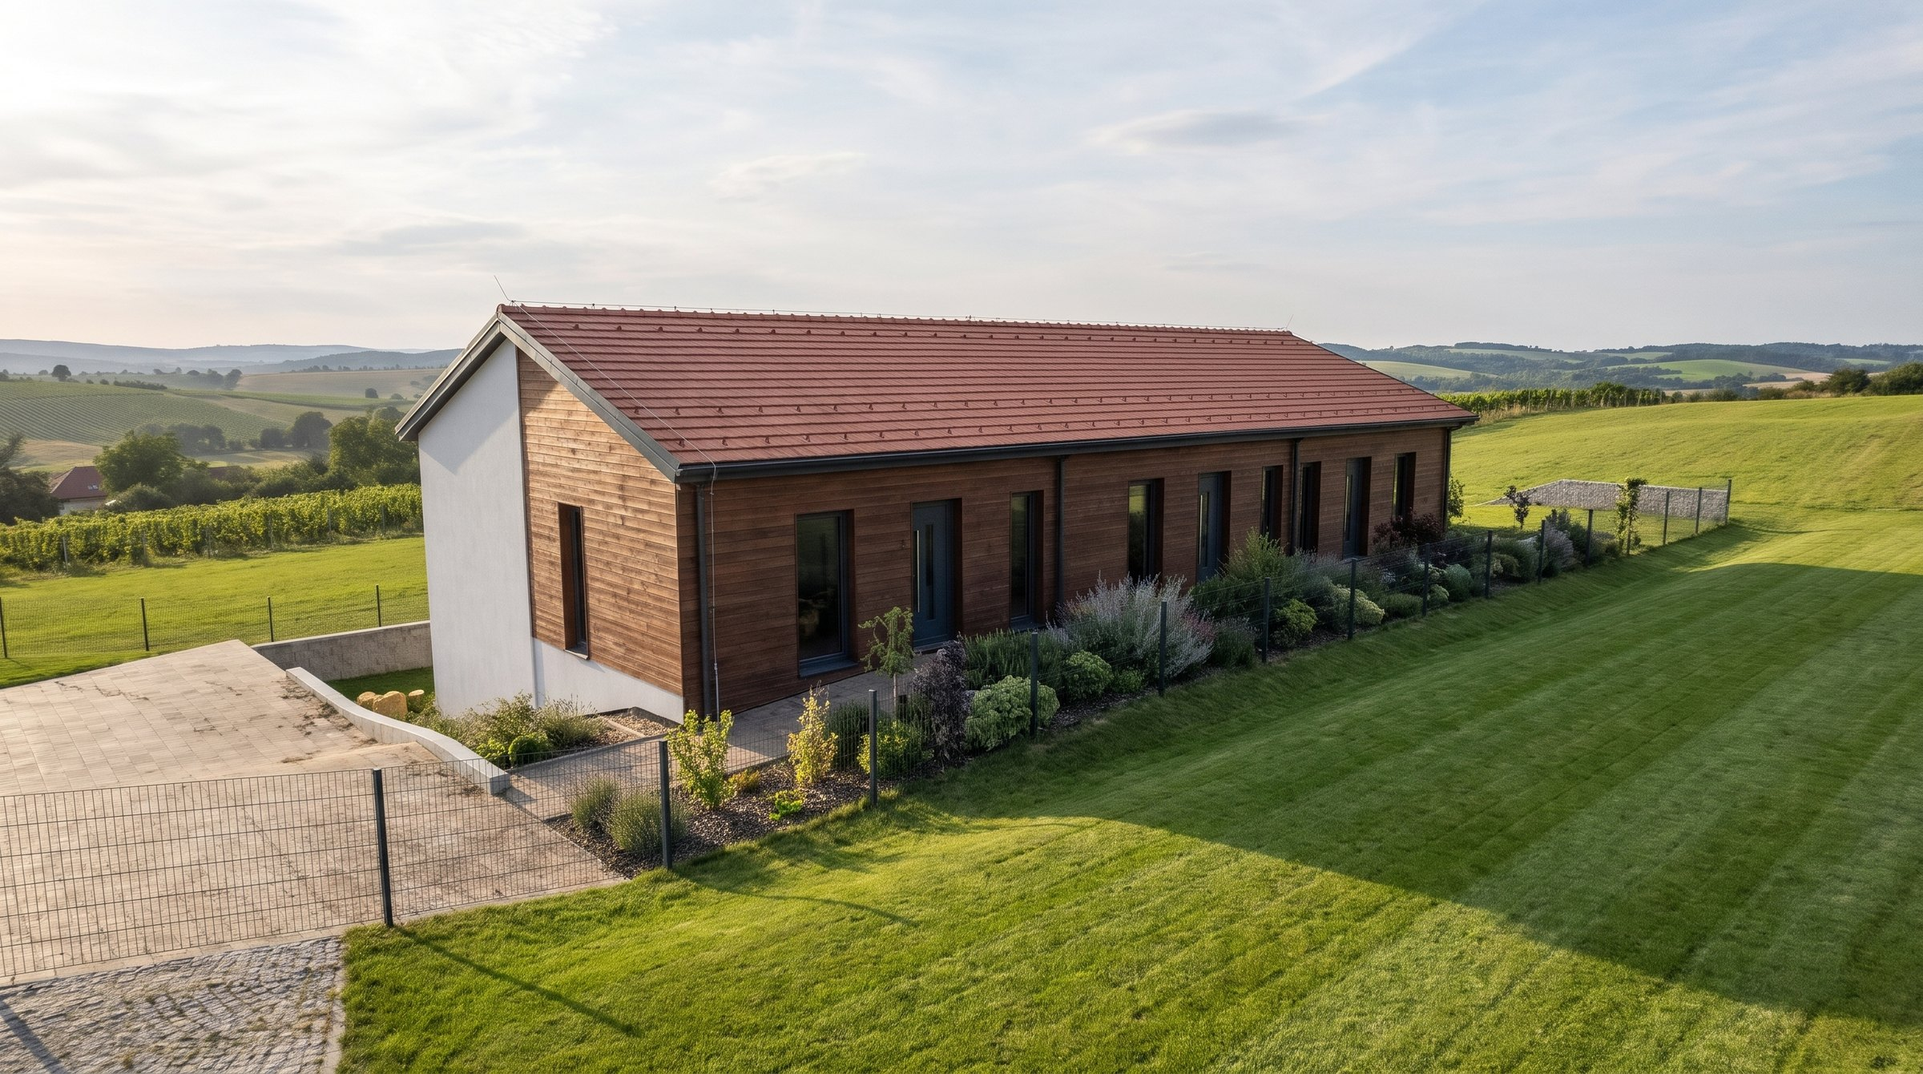
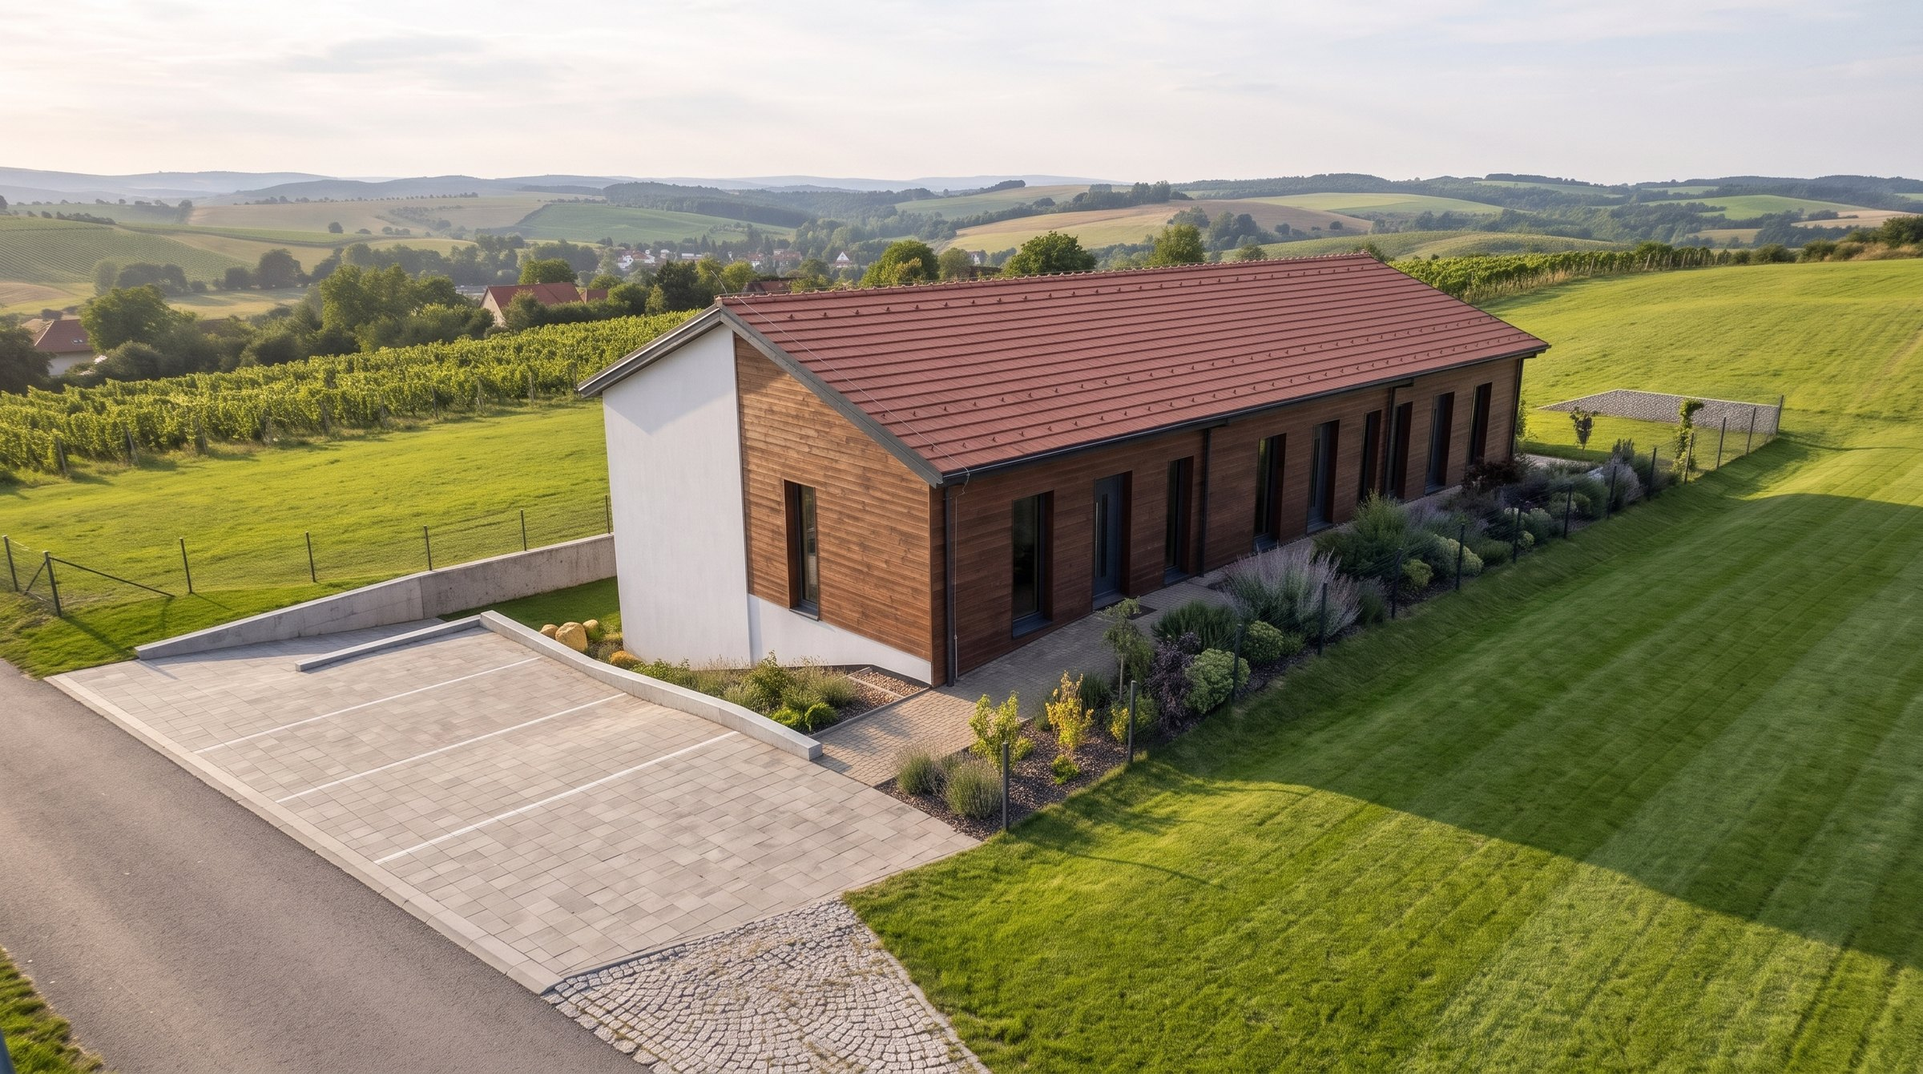
Předání: připomínky ke každé části, upravené vizualizace (vjezd, svislice)

diff --git a/predani/index.html b/predani/index.html
@@ -19,24 +19,31 @@ table{border-collapse:collapse;width:100%;max-width:640px;font-size:15px}td{padd
 .need{border:1.5px solid var(--zl);background:linear-gradient(180deg,#f7ecd4,#fbf6ec);border-radius:6px;padding:16px 22px 10px;margin-top:14px}
 .need h3{font:400 24px "Didot","Bodoni Moda",serif;margin:0 0 8px;color:var(--vin)}.need ol{margin:0;padding-left:20px}.need li{margin:5px 0}
 .dal li{margin:6px 0}.bxw{margin:10px 0;display:flex;gap:10px;align-items:center;font-weight:600}
-.bx{width:22px;height:22px;border:2px solid var(--gr);border-radius:4px;display:inline-block;cursor:pointer}.bx.on{background:var(--li);border-color:var(--li)}
+.bx{display:inline-flex;cursor:pointer}.bxw .bx i{width:24px;height:24px;border:2px solid var(--gr);border-radius:4px;display:flex;align-items:center;justify-content:center;background:#fffdf8}.bxw .bx input:checked+i{background:var(--li);border-color:var(--li)}.bxw .bx input:checked+i::after{content:'✓';color:#fff;font-weight:700;font-style:normal}
+.kom{margin:16px 0 0;border-top:1px solid #e3d9c6;padding-top:10px}.kb{background:none;border:1px solid var(--zl);color:var(--vin);font:600 14px Mulish,system-ui,sans-serif;padding:7px 13px;border-radius:3px;cursor:pointer}
+.kb:hover{background:#f3e7cc}.kf{display:none;margin-top:8px}.kom.on .kf{display:block}.kf textarea{width:100%;max-width:720px;min-height:90px;border:1px solid #cfc3ab;border-radius:4px;padding:10px 12px;font:15px Mulish,system-ui,sans-serif;background:#fffdf8;display:block}
+.ks{margin-top:8px;background:var(--gr);color:var(--kr);border:0;font:700 14px Mulish,system-ui,sans-serif;padding:9px 16px;border-radius:3px;cursor:pointer}.kst{margin-left:10px;font-size:14px;color:#6d665b}.kst.err{color:var(--vin)}
+.kl div{background:#efe6d3;border-left:3px solid var(--zl);padding:7px 11px;margin-top:8px;font-size:14.5px;max-width:720px;white-space:pre-wrap}.kl small{display:block;color:#7a7264;font-size:12px}
 @media(max-width:700px){.vyz,.dum{grid-template-columns:1fr}h1{font-size:31px}.m3d{aspect-ratio:4/5}}
 </style></head><body>
-<header><img src="img/logo_svetle.png" alt="Na Vinici · Valtice"><div class="eyb" style="margin-top:14px">Předání podkladů · 7. 11. 2026</div></header>
+<header><img src="img/logo_svetle.png" alt="Na Vinici · Valtice"><div class="eyb" style="margin-top:14px">Předání podkladů · 9. 11. 2026</div></header>
 <div class="wrap">
 <h1>Dobrý den, pane Zajíčku,</h1>
-<p class="lead">posíláme první část z natáčení ve Valticích: fotky do inzerátu a vyznačení pozemku s dostupností. Film s domem v záběrech, 3D prohlídky
-a vizualizace interiérů právě dokončujeme. Níže najdete dvě věci ke schválení, ať je můžeme rovnou použít.</p>
+<p class="lead">posíláme podklady z natáčení ve Valticích: fotky do inzerátu, vyznačení pozemku s dostupností a ke schválení vzhled domu
+(vizualizace zepředu a zezadu, 3D model s umístěním na pozemku), 3D prohlídku jednotky 1 a vizuál projektu.
+Ke každé části nám můžete rovnou napsat připomínku tlačítkem pod ní.</p>
 
 <h2>Fotky do inzerátu</h2>
 <p class="mut">31 fotek z dronu (pozemek, okolí, zámek, Kolonáda na Rajstně, Lednice). Kliknutím fotku zvětšíte a můžete listovat; stáhnout ji jde přímo v galerii, všechny najednou tlačítkem.</p>
 <a class="btn" href="Valtice_NaVinici_fotky.zip" download>⬇ Stáhnout všechny fotky (55 MB)</a>
 <div class="gal"><a class="lb" data-g="fotky" href="foto/DJI_20261104104037_0472_D.jpg" data-dl="foto/DJI_20261104104037_0472_D.jpg" data-dn="Valtice_NaVinici_0472.jpg"><img loading="lazy" src="nahled/DJI_20261104104037_0472_D.jpg" alt=""></a><a class="lb" data-g="fotky" href="foto/DJI_20261104105020_0485_D.jpg" data-dl="foto/DJI_20261104105020_0485_D.jpg" data-dn="Valtice_NaVinici_0485.jpg"><img loading="lazy" src="nahled/DJI_20261104105020_0485_D.jpg" alt=""></a><a class="lb" data-g="fotky" href="foto/DJI_20261104115548_0637_D.jpg" data-dl="foto/DJI_20261104115548_0637_D.jpg" data-dn="Valtice_NaVinici_0637.jpg"><img loading="lazy" src="nahled/DJI_20261104115548_0637_D.jpg" alt=""></a><a class="lb" data-g="fotky" href="foto/DJI_20261104115606_0639_D.jpg" data-dl="foto/DJI_20261104115606_0639_D.jpg" data-dn="Valtice_NaVinici_0639.jpg"><img loading="lazy" src="nahled/DJI_20261104115606_0639_D.jpg" alt=""></a><a class="lb" data-g="fotky" href="foto/DJI_20261104115631_0641_D.jpg" data-dl="foto/DJI_20261104115631_0641_D.jpg" data-dn="Valtice_NaVinici_0641.jpg"><img loading="lazy" src="nahled/DJI_20261104115631_0641_D.jpg" alt=""></a><a class="lb" data-g="fotky" href="foto/DJI_20261104115723_0644_D.jpg" data-dl="foto/DJI_20261104115723_0644_D.jpg" data-dn="Valtice_NaVinici_0644.jpg"><img loading="lazy" src="nahled/DJI_20261104115723_0644_D.jpg" alt=""></a><a class="lb" data-g="fotky" href="foto/DJI_20261104115748_0646_D.jpg" data-dl="foto/DJI_20261104115748_0646_D.jpg" data-dn="Valtice_NaVinici_0646.jpg"><img loading="lazy" src="nahled/DJI_20261104115748_0646_D.jpg" alt=""></a><a class="lb" data-g="fotky" href="foto/DJI_20261104115816_0650_D.jpg" data-dl="foto/DJI_20261104115816_0650_D.jpg" data-dn="Valtice_NaVinici_0650.jpg"><img loading="lazy" src="nahled/DJI_20261104115816_0650_D.jpg" alt=""></a><a class="lb" data-g="fotky" href="foto/DJI_20261104115835_0652_D.jpg" data-dl="foto/DJI_20261104115835_0652_D.jpg" data-dn="Valtice_NaVinici_0652.jpg"><img loading="lazy" src="nahled/DJI_20261104115835_0652_D.jpg" alt=""></a><a class="lb" data-g="fotky" href="foto/DJI_20261104115841_0653_D.jpg" data-dl="foto/DJI_20261104115841_0653_D.jpg" data-dn="Valtice_NaVinici_0653.jpg"><img loading="lazy" src="nahled/DJI_20261104115841_0653_D.jpg" alt=""></a><a class="lb" data-g="fotky" href="foto/DJI_20261104115844_0654_D.jpg" data-dl="foto/DJI_20261104115844_0654_D.jpg" data-dn="Valtice_NaVinici_0654.jpg"><img loading="lazy" src="nahled/DJI_20261104115844_0654_D.jpg" alt=""></a><a class="lb" data-g="fotky" href="foto/DJI_20261104115914_0657_D.jpg" data-dl="foto/DJI_20261104115914_0657_D.jpg" data-dn="Valtice_NaVinici_0657.jpg"><img loading="lazy" src="nahled/DJI_20261104115914_0657_D.jpg" alt=""></a><a class="lb" data-g="fotky" href="foto/DJI_20261104115924_0658_D.jpg" data-dl="foto/DJI_20261104115924_0658_D.jpg" data-dn="Valtice_NaVinici_0658.jpg"><img loading="lazy" src="nahled/DJI_20261104115924_0658_D.jpg" alt=""></a><a class="lb" data-g="fotky" href="foto/DJI_20261104115959_0661_D.jpg" data-dl="foto/DJI_20261104115959_0661_D.jpg" data-dn="Valtice_NaVinici_0661.jpg"><img loading="lazy" src="nahled/DJI_20261104115959_0661_D.jpg" alt=""></a><a class="lb" data-g="fotky" href="foto/DJI_20261104120042_0664_D.jpg" data-dl="foto/DJI_20261104120042_0664_D.jpg" data-dn="Valtice_NaVinici_0664.jpg"><img loading="lazy" src="nahled/DJI_20261104120042_0664_D.jpg" alt=""></a><a class="lb" data-g="fotky" href="foto/DJI_20261104120119_0667_D.jpg" data-dl="foto/DJI_20261104120119_0667_D.jpg" data-dn="Valtice_NaVinici_0667.jpg"><img loading="lazy" src="nahled/DJI_20261104120119_0667_D.jpg" alt=""></a><a class="lb" data-g="fotky" href="foto/DJI_20261104120206_0670_D.jpg" data-dl="foto/DJI_20261104120206_0670_D.jpg" data-dn="Valtice_NaVinici_0670.jpg"><img loading="lazy" src="nahled/DJI_20261104120206_0670_D.jpg" alt=""></a><a class="lb" data-g="fotky" href="foto/DJI_20261104120436_0676_D.jpg" data-dl="foto/DJI_20261104120436_0676_D.jpg" data-dn="Valtice_NaVinici_0676.jpg"><img loading="lazy" src="nahled/DJI_20261104120436_0676_D.jpg" alt=""></a><a class="lb" data-g="fotky" href="foto/DJI_20261104120618_0684_D.jpg" data-dl="foto/DJI_20261104120618_0684_D.jpg" data-dn="Valtice_NaVinici_0684.jpg"><img loading="lazy" src="nahled/DJI_20261104120618_0684_D.jpg" alt=""></a><a class="lb" data-g="fotky" href="foto/DJI_20261104120959_0687_D.jpg" data-dl="foto/DJI_20261104120959_0687_D.jpg" data-dn="Valtice_NaVinici_0687.jpg"><img loading="lazy" src="nahled/DJI_20261104120959_0687_D.jpg" alt=""></a><a class="lb" data-g="fotky" href="foto/DJI_20261104121008_0688_D.jpg" data-dl="foto/DJI_20261104121008_0688_D.jpg" data-dn="Valtice_NaVinici_0688.jpg"><img loading="lazy" src="nahled/DJI_20261104121008_0688_D.jpg" alt=""></a><a class="lb" data-g="fotky" href="foto/DJI_20261104121014_0689_D.jpg" data-dl="foto/DJI_20261104121014_0689_D.jpg" data-dn="Valtice_NaVinici_0689.jpg"><img loading="lazy" src="nahled/DJI_20261104121014_0689_D.jpg" alt=""></a><a class="lb" data-g="fotky" href="foto/DJI_20261104121019_0690_D.jpg" data-dl="foto/DJI_20261104121019_0690_D.jpg" data-dn="Valtice_NaVinici_0690.jpg"><img loading="lazy" src="nahled/DJI_20261104121019_0690_D.jpg" alt=""></a><a class="lb" data-g="fotky" href="foto/DJI_20261104121159_0696_D.jpg" data-dl="foto/DJI_20261104121159_0696_D.jpg" data-dn="Valtice_NaVinici_0696.jpg"><img loading="lazy" src="nahled/DJI_20261104121159_0696_D.jpg" alt=""></a><a class="lb" data-g="fotky" href="foto/DJI_20261104121300_0701_D.jpg" data-dl="foto/DJI_20261104121300_0701_D.jpg" data-dn="Valtice_NaVinici_0701.jpg"><img loading="lazy" src="nahled/DJI_20261104121300_0701_D.jpg" alt=""></a><a class="lb" data-g="fotky" href="foto/DJI_20261104121313_0707_D.jpg" data-dl="foto/DJI_20261104121313_0707_D.jpg" data-dn="Valtice_NaVinici_0707.jpg"><img loading="lazy" src="nahled/DJI_20261104121313_0707_D.jpg" alt=""></a><a class="lb" data-g="fotky" href="foto/DJI_20261104121347_0709_D.jpg" data-dl="foto/DJI_20261104121347_0709_D.jpg" data-dn="Valtice_NaVinici_0709.jpg"><img loading="lazy" src="nahled/DJI_20261104121347_0709_D.jpg" alt=""></a><a class="lb" data-g="fotky" href="foto/DJI_20261104121408_0713_D.jpg" data-dl="foto/DJI_20261104121408_0713_D.jpg" data-dn="Valtice_NaVinici_0713.jpg"><img loading="lazy" src="nahled/DJI_20261104121408_0713_D.jpg" alt=""></a><a class="lb" data-g="fotky" href="foto/DJI_20261104121426_0716_D.jpg" data-dl="foto/DJI_20261104121426_0716_D.jpg" data-dn="Valtice_NaVinici_0716.jpg"><img loading="lazy" src="nahled/DJI_20261104121426_0716_D.jpg" alt=""></a><a class="lb" data-g="fotky" href="foto/DJI_20261104121439_0718_D.jpg" data-dl="foto/DJI_20261104121439_0718_D.jpg" data-dn="Valtice_NaVinici_0718.jpg"><img loading="lazy" src="nahled/DJI_20261104121439_0718_D.jpg" alt=""></a><a class="lb" data-g="fotky" href="foto/DJI_20261104121459_0720_D.jpg" data-dl="foto/DJI_20261104121459_0720_D.jpg" data-dn="Valtice_NaVinici_0720.jpg"><img loading="lazy" src="nahled/DJI_20261104121459_0720_D.jpg" alt=""></a></div>
+<div class="kom" data-s="Fotky do inzerátu"><button type="button" class="kb">💬 Připomínka k této části</button><div class="kf"><textarea placeholder="Napište nám, co upravit nebo na co se zeptat…"></textarea><button type="button" class="ks">Odeslat</button><span class="kst"></span></div><div class="kl"></div></div>
 
 <h2>Pozemek a dostupnost</h2>
 <p class="mut">Hranice podle katastru (parc. č. 3006/49, 834 m²) je orientační. Vzdálenosti jsou trasy podle mapových podkladů OpenStreetMap, ne vzdušnou čarou.</p>
 <div class="vyz"><figure><a class="lb" data-g="vyz" href="velke/Valtice_NaVinici_0696_vyznaceni.jpg" data-dl="img/Valtice_NaVinici_0696_vyznaceni.jpg" data-dn="Valtice_NaVinici_0696_vyznaceni.jpg" data-cap="Pozemek a dostupnost"><img loading="lazy" src="nahled/Valtice_NaVinici_0696_vyznaceni.jpg" alt=""></a><figcaption><a href="img/Valtice_NaVinici_0696_vyznaceni.jpg" download>⬇ plné rozlišení</a></figcaption></figure><figure><a class="lb" data-g="vyz" href="velke/Valtice_NaVinici_0709_vyznaceni.jpg" data-dl="img/Valtice_NaVinici_0709_vyznaceni.jpg" data-dn="Valtice_NaVinici_0709_vyznaceni.jpg" data-cap="Pozemek a dostupnost"><img loading="lazy" src="nahled/Valtice_NaVinici_0709_vyznaceni.jpg" alt=""></a><figcaption><a href="img/Valtice_NaVinici_0709_vyznaceni.jpg" download>⬇ plné rozlišení</a></figcaption></figure><figure><a class="lb" data-g="vyz" href="velke/Valtice_NaVinici_0718_vyznaceni.jpg" data-dl="img/Valtice_NaVinici_0718_vyznaceni.jpg" data-dn="Valtice_NaVinici_0718_vyznaceni.jpg" data-cap="Pozemek a dostupnost"><img loading="lazy" src="nahled/Valtice_NaVinici_0718_vyznaceni.jpg" alt=""></a><figcaption><a href="img/Valtice_NaVinici_0718_vyznaceni.jpg" download>⬇ plné rozlišení</a></figcaption></figure><figure><a class="lb" data-g="vyz" href="velke/Valtice_NaVinici_0720_vyznaceni.jpg" data-dl="img/Valtice_NaVinici_0720_vyznaceni.jpg" data-dn="Valtice_NaVinici_0720_vyznaceni.jpg" data-cap="Pozemek a dostupnost"><img loading="lazy" src="nahled/Valtice_NaVinici_0720_vyznaceni.jpg" alt=""></a><figcaption><a href="img/Valtice_NaVinici_0720_vyznaceni.jpg" download>⬇ plné rozlišení</a></figcaption></figure></div>
 <table style="margin-top:16px"><tr><td><b>Z pozemku do</b></td><td><b>pěšky</b></td><td><b>autem</b></td></tr><tr><td>Kostel Nanebevzetí Panny Marie</td><td>0,9 km · 12 min</td><td>1,0 km · 4 min</td></tr><tr><td>Nemocnice Valtice</td><td>1,0 km · 13 min</td><td>1,2 km · 4 min</td></tr><tr><td>Lékárna (Nemocnice Valtice)</td><td>1,0 km · 13 min</td><td>1,2 km · 4 min</td></tr><tr><td>Zámek Valtice</td><td>1,0 km · 13 min</td><td>1,1 km · 4 min</td></tr><tr><td>Mateřská škola</td><td>1,0 km · 13 min</td><td>1,4 km · 4 min</td></tr><tr><td>Coop supermarket</td><td>1,0 km · 14 min</td><td>1,3 km · 4 min</td></tr><tr><td>Náměstí Svobody</td><td>1,1 km · 14 min</td><td>1,2 km · 4 min</td></tr><tr><td>Coop potraviny</td><td>1,1 km · 14 min</td><td>1,6 km · 4 min</td></tr><tr><td>Pošta</td><td>1,1 km · 15 min</td><td>1,2 km · 4 min</td></tr><tr><td>Základní škola</td><td>1,2 km · 16 min</td><td>1,3 km · 4 min</td></tr><tr><td>Vlaková zastávka Valtice město</td><td>1,6 km · 22 min</td><td>1,8 km · 4 min</td></tr><tr><td>Nádraží Valtice</td><td>2,5 km · 33 min</td><td>2,4 km · 6 min</td></tr><tr><td>Kolonáda na Rajstně</td><td>3,1 km · 45 min</td><td>3,2 km · 8 min</td></tr><tr><td>Lednice</td><td>–</td><td>8,4 km · 12 min</td></tr></table>
+<div class="kom" data-s="Pozemek a dostupnost"><button type="button" class="kb">💬 Připomínka k této části</button><div class="kf"><textarea placeholder="Napište nám, co upravit nebo na co se zeptat…"></textarea><button type="button" class="ks">Odeslat</button><span class="kst"></span></div><div class="kl"></div></div>
 
 <h2>Vzhled domu ke schválení</h2>
 <p>Dům jsme podle výkresů (DSP, Atelier X) postavili ve 3D. Takto ho osadíme do záběrů z dronu ve filmu a do tří fotek se zákresem zahrad:
@@ -48,18 +55,21 @@ a vizualizace interiérů právě dokončujeme. Níže najdete dvě věci ke sch
 <div class="m3d"><iframe src="model/" loading="lazy" allow="fullscreen" title="3D model domu Na Vinici"></iframe></div>
 <p class="mut">3D model: otáčejte myší nebo prstem, tlačítkem „Projít se po pozemku“ se projdete kolem domu, u dveří jednotky 1 můžete vstoupit dovnitř.
 <a href="model/" target="_blank">Otevřít na celou obrazovku</a></p>
+<div class="bxw"><span class="bx" data-k="Vzhled domu a umístění na pozemku schvalujeme"></span> Vzhled domu a umístění na pozemku schvalujeme</div>
+<div class="kom" data-s="Vzhled domu"><button type="button" class="kb">💬 Připomínka k této části</button><div class="kf"><textarea placeholder="Napište nám, co upravit nebo na co se zeptat…"></textarea><button type="button" class="ks">Odeslat</button><span class="kst"></span></div><div class="kl"></div></div>
 
 <h2>3D prohlídka jednotky 1</h2>
 <p>Jednotka 1 (95,3 m², zahrada 115 m²) je hotová jako 3D prohlídka podle výkresů: obě podlaží, terasa a zahrada, pohled shora a přepínač
 prázdný / zařízený byt. Do prohlídky se dá vstoupit i z 3D modelu domu (zlatý štítek u dveří jednotky 1). Prohlídky jednotek 2 a 3 doplníme stejně.</p>
 <a class="p1" href="prohlidka-1/" target="_blank"><img src="img/prohlidka_uvod.jpg" alt="Úvodní obrazovka 3D prohlídky jednotky 1"><span>Projít jednotku 1 ve 3D →</span></a>
 <p class="mut">Jde o pracovní verzi – drobnosti (zařízení, materiály, světlo) ještě dolaďujeme.</p>
-<div class="bxw"><span class="bx" data-k="Vzhled domu schvalujeme"></span> Vzhled domu schvalujeme</div>
+<div class="kom" data-s="3D prohlídka jednotky 1"><button type="button" class="kb">💬 Připomínka k této části</button><div class="kf"><textarea placeholder="Napište nám, co upravit nebo na co se zeptat…"></textarea><button type="button" class="ks">Odeslat</button><span class="kst"></span></div><div class="kl"></div></div>
 
 <h2>Vizuál projektu</h2>
 <p>Pro film a fotky jsme připravili jednoduchý předběžný vizuál „Na Vinici“. Pokud máte vlastní logo nebo barvy, pošlete nám je a vyměníme je.</p>
 <a class="lb" data-g="brand" href="img/brand_list.png" data-cap="Předběžný vizuál Na Vinici"><img src="img/brand_list.png" alt="Vizuál projektu" style="width:100%;border-radius:3px"></a>
 <div class="bxw"><span class="bx" data-k="Vizuál projektu se nám líbí"></span> Vizuál se nám líbí, můžete ho použít</div>
+<div class="kom" data-s="Vizuál projektu"><button type="button" class="kb">💬 Připomínka k této části</button><div class="kf"><textarea placeholder="Napište nám, co upravit nebo na co se zeptat…"></textarea><button type="button" class="ks">Odeslat</button><span class="kst"></span></div><div class="kl"></div></div>
 
 <h2>Co bude dál</h2>
 <ul class="dal"><li><b>Dům v záběrech z dronu</b> ve filmu a na třech fotkách se zákresem tří zahrad.</li>
@@ -70,6 +80,7 @@ prázdný / zařízený byt. Do prohlídky se dá vstoupit i z 3D modelu domu (z
 <li>Standard vybavení (podlahy, obklady, kuchyň, koupelna), aby vizualizace interiérů odpovídaly skutečnosti.</li>
 <li>Pokud je máte: koordinační situaci C.3 (DWG), 3D model nebo finální výkresy.</li>
 <li>Logo a kontakt do 3D prohlídek a na konec filmu, a jestli chcete ve filmu uvádět ceny.</li></ol></div>
+<div class="kom" data-s="Co bude dál a co od vás potřebujeme"><button type="button" class="kb">💬 Připomínka k této části</button><div class="kf"><textarea placeholder="Napište nám, co upravit nebo na co se zeptat…"></textarea><button type="button" class="ks">Odeslat</button><span class="kst"></span></div><div class="kl"></div></div>
 <p class="mut" style="margin-top:34px">FrantišekDron · Jan Goldšmíd · +420 723 707 958 · honza@frantisekdron.cz</p>
 </div>
 <!-- Webová nabídka FrantišekDron: zaškrtnutí v tabulce (posílá se samo) a komentář z plovoucího tlačítka → ntfy,
@@ -191,7 +202,30 @@ prázdný / zařízený byt. Do prohlídky se dá vstoupit i z 3D modelu domu (z
 })();
 </script>
 
-<script>document.querySelectorAll('.bx').forEach(b=>b.addEventListener('click',()=>b.classList.toggle('on')))</script>
+<script>(function(){
+var TOPIC='fd-nabidky-48c2f0103d78', TIT='Valtice · předání podkladů · komentář: ', KEY='fdkom:'+location.pathname, moje=[];
+try{moje=JSON.parse(localStorage.getItem(KEY)||'[]')}catch(e){}
+function ul(){try{localStorage.setItem(KEY,JSON.stringify(moje))}catch(e){}}
+function cas(d){d=new Date(d);return d.getDate()+'. '+(d.getMonth()+1)+'. '+d.getHours()+':'+String(d.getMinutes()).padStart(2,'0')}
+var web=[];
+function kresli(){document.querySelectorAll('.kom').forEach(function(k){var s=k.dataset.s, kl=k.querySelector('.kl'), vid={}, h='';
+  web.filter(function(r){return (r.nabidka||'')===TIT+s}).forEach(function(r){vid[r.zprava]=1;h+='<div><small>Odesláno '+r.cas.slice(8,10).replace(/^0/,'')+'. '+String(+r.cas.slice(5,7))+'. '+r.cas.slice(11)+'</small>'+esc(r.zprava)+'</div>'});
+  moje.filter(function(m){return m.s===s&&!vid[m.t]}).forEach(function(m){h+='<div><small>Odesláno '+cas(m.c)+'</small>'+esc(m.t)+'</div>'});
+  kl.innerHTML=h;})}
+function esc(t){return String(t).replace(/[&<>]/g,function(c){return {'&':'&amp;','<':'&lt;','>':'&gt;'}[c]})}
+fetch('odpovedi.json',{cache:'no-store'}).then(function(r){return r.ok?r.json():[]}).then(function(d){web=d||[];kresli()}).catch(function(){});
+document.querySelectorAll('.kom').forEach(function(k){
+  k.querySelector('.kb').addEventListener('click',function(){k.classList.toggle('on');if(k.classList.contains('on'))k.querySelector('textarea').focus()});
+  k.querySelector('.ks').addEventListener('click',function(){var b=this, ta=k.querySelector('textarea'), st=k.querySelector('.kst'), t=ta.value.trim();
+    if(!t){st.className='kst err';st.textContent='Napište prosím připomínku.';return}
+    b.disabled=true;st.className='kst';st.textContent='Odesílám…';
+    fetch('https://ntfy.sh/',{method:'POST',body:JSON.stringify({topic:TOPIC,title:TIT+k.dataset.s,message:t,tags:['speech_balloon'],click:location.origin+location.pathname})})
+    .then(function(r){if(!r.ok)throw 0;moje.push({s:k.dataset.s,t:t,c:Date.now()});ul();ta.value='';st.textContent='Odesláno, děkujeme.';kresli()})
+    .catch(function(){st.className='kst err';st.textContent='Nepodařilo se odeslat, napište prosím na honza@frantisekdron.cz.'})
+    .finally(function(){b.disabled=false})});
+});
+kresli();
+})()</script>
 <style>
 a.lb{display:block;cursor:zoom-in}
 .lbx{position:fixed;inset:0;background:#121010;display:none;align-items:center;justify-content:center;z-index:9999;touch-action:pan-y pinch-zoom}
